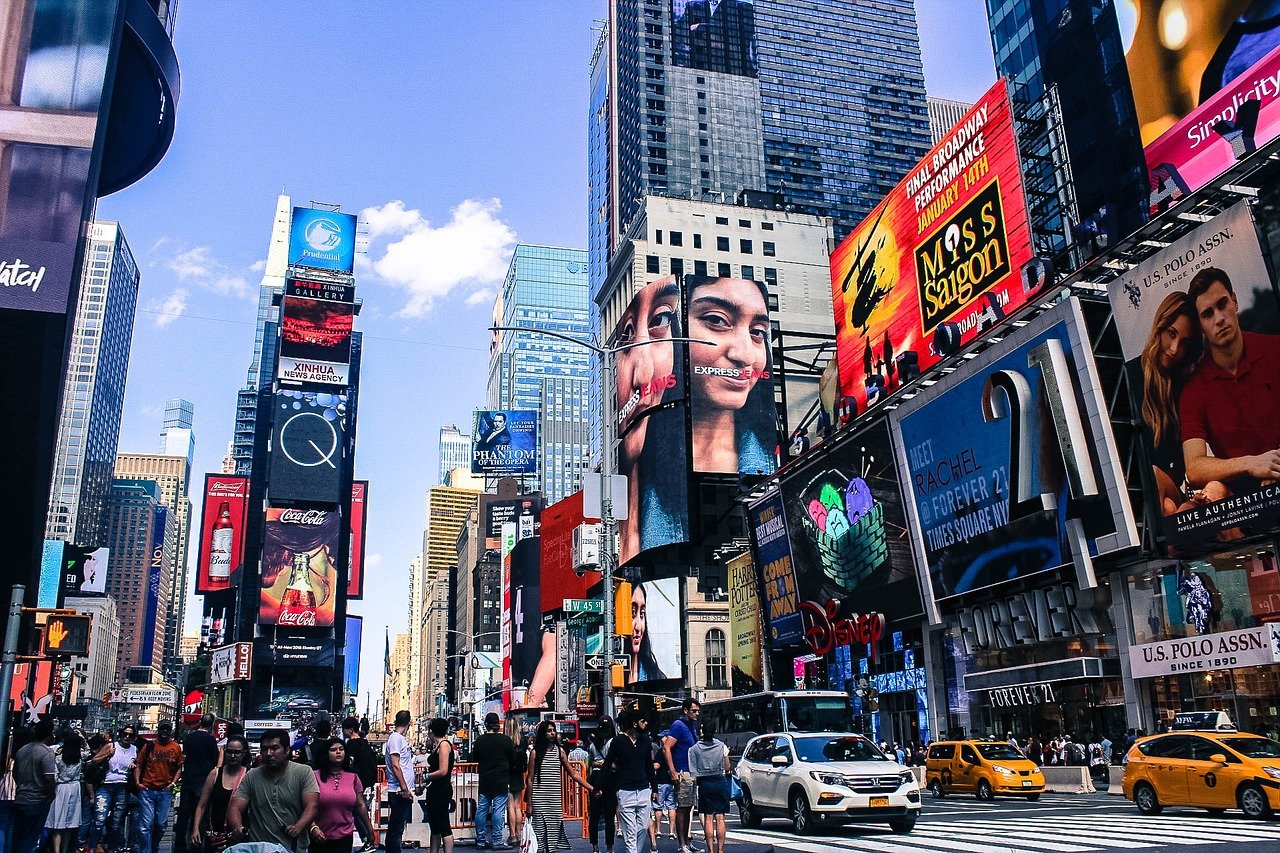
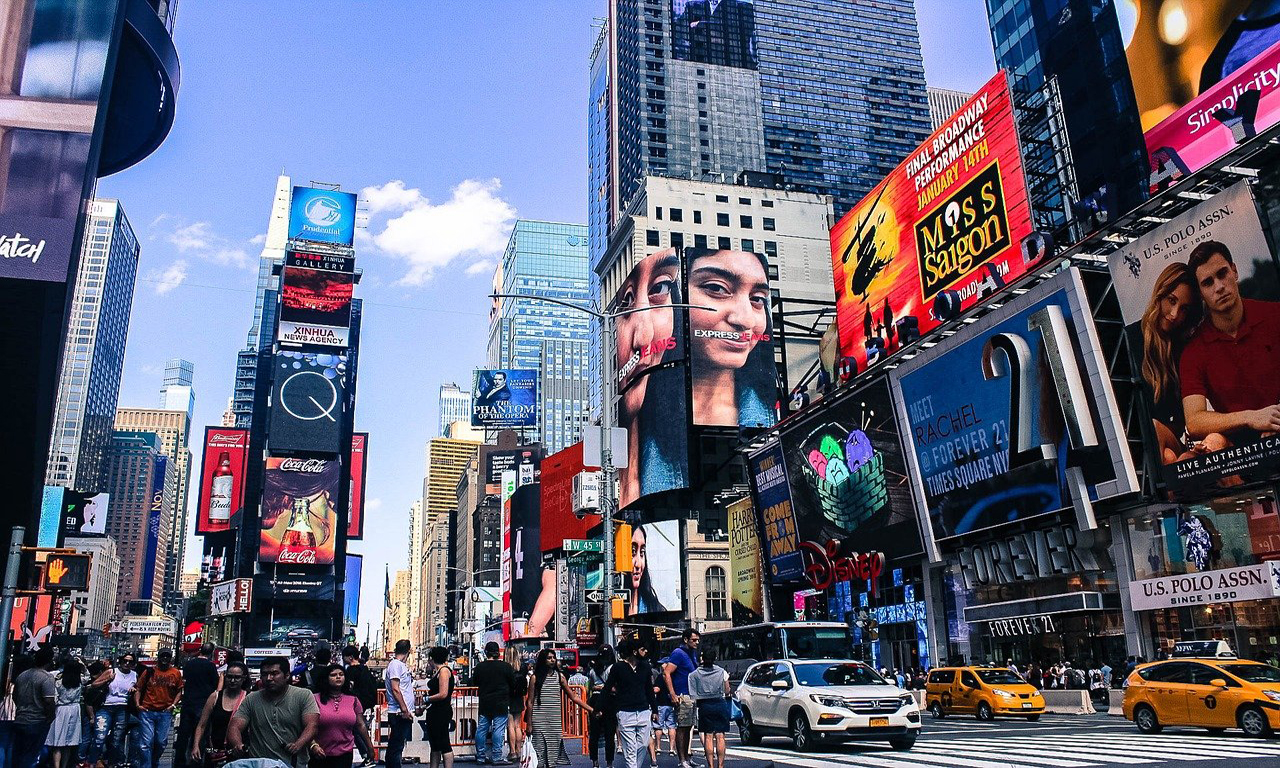
resize images local/event

diff --git a/scripts/classes.js b/scripts/classes.js
@@ -30,7 +30,7 @@ var Locations = /** @class */ (function () {
         locArray.push(this);
     }
     Locations.prototype.display = function () {
-        contentAll.innerHTML += "<div class='card' style='width: 18rem;'><img src='" + this.image + "' class='card-img-top' alt=''><div class='card-body'><p class='card-text'>" + this.object + "<br>" + this.zipCode + " " + this.city + "<br>" + this.address + "</p></div></div>";
+        contentAll.innerHTML += "<div class='card col-sm-3 my-3 mx-auto' style='max-width: 540px'><img src='" + this.image + "' class='card-img-top' alt=''><div class='card-body'><p class='card-text'>" + this.object + "<br>" + this.zipCode + " " + this.city + "<br>" + this.address + "</p></div></div>";
     };
     return Locations;
 }());
@@ -46,7 +46,7 @@ var Restaurants = /** @class */ (function (_super) {
         return _this;
     }
     Restaurants.prototype.display = function () {
-        contentAll.innerHTML += "<div class='card' style='width: 18rem;'><img src='" + this.image + "' class='card-img-top' alt=''><div class='card-body'><p class='card-text'>" + this.object + "<br>" + this.zipCode + " " + this.city + "<br>" + this.address + "<br>" + this.phone + "<br>" + this.cuisine + " cuisine<br>" + this.web + "</p></div></div>";
+        contentAll.innerHTML += "<div class='card col-sm-3 my-3 mx-auto' style='max-width: 540px'><img src='" + this.image + "' class='card-img-top' alt=''><div class='card-body'><p class='card-text'>" + this.object + "<br>" + this.zipCode + " " + this.city + "<br>" + this.address + "<br>" + this.phone + "<br>" + this.cuisine + " cuisine<br>" + this.web + "</p></div></div>";
     };
     return Restaurants;
 }(Locations));
@@ -62,7 +62,7 @@ var Events = /** @class */ (function (_super) {
         return _this;
     }
     Events.prototype.display = function () {
-        contentAll.innerHTML += "<div class='card' style='width: 18rem;'><img src='" + this.image + "' class='card-img-top' alt=''><div class='card-body'><p class='card-text'>" + this.object + "<br>" + this.zipCode + " " + this.city + "<br>" + this.address + "<br>" + this.date + ", " + this.time + "<br>" + this.price + "</p></div></div>";
+        contentAll.innerHTML += "<div class='card col-sm-3 my-3 mx-auto' style='max-width: 540px'><img src='" + this.image + "' class='card-img-top' alt=''><div class='card-body'><p class='card-text'>" + this.object + "<br>" + this.zipCode + " " + this.city + "<br>" + this.address + "<br>" + this.date + ", " + this.time + "<br>" + this.price + "</p></div></div>";
     };
     return Events;
 }(Locations));

diff --git a/scripts/classes.ts b/scripts/classes.ts
@@ -25,8 +25,12 @@ class Locations {
     locArray.push(this);
   }
   display() {
-    contentAll.innerHTML += `<div class='card' style='width: 18rem;'><img src='${this.image}' class='card-img-top' alt=''><div class='card-body'><p class='card-text'>${this.object}<br>${this.zipCode} ${this.city}<br>${this.address}</p></div></div>`;
+    contentAll.innerHTML += `<div class='card col-sm-3 my-3 mx-auto' style='max-width: 540px'><img src='${this.image}' class='card-img-top' alt=''><div class='card-body'><p class='card-text'>${this.object}<br>${this.zipCode} ${this.city}<br>${this.address}</p></div></div>`;
   }
+
+  // display() {
+  //   contentAll.innerHTML += `<div class='card col-3' style='width: 18rem;'><img src='${this.image}' class='card-img-top' alt=''><div class='card-body'><p class='card-text'>${this.object}<br>${this.zipCode} ${this.city}<br>${this.address}</p></div></div>`;
+  // }
 }
 
 // ### Create Child class Restaurants with properties (phone-number, cuisine, web-address) ###
@@ -43,7 +47,7 @@ class Restaurants extends Locations {
     restArray.push(this);
   }
   display() {
-    contentAll.innerHTML += `<div class='card' style='width: 18rem;'><img src='${this.image}' class='card-img-top' alt=''><div class='card-body'><p class='card-text'>${this.object}<br>${this.zipCode} ${this.city}<br>${this.address}<br>${this.phone}<br>${this.cuisine} cuisine<br>${this.web}</p></div></div>`;
+    contentAll.innerHTML += `<div class='card col-sm-3 my-3 mx-auto' style='max-width: 540px'><img src='${this.image}' class='card-img-top' alt=''><div class='card-body'><p class='card-text'>${this.object}<br>${this.zipCode} ${this.city}<br>${this.address}<br>${this.phone}<br>${this.cuisine} cuisine<br>${this.web}</p></div></div>`;
   }
 }
 
@@ -61,6 +65,6 @@ class Events extends Locations {
     eveArray.push(this);
   }
   display() {
-    contentAll.innerHTML += `<div class='card' style='width: 18rem;'><img src='${this.image}' class='card-img-top' alt=''><div class='card-body'><p class='card-text'>${this.object}<br>${this.zipCode} ${this.city}<br>${this.address}<br>${this.date}, ${this.time}<br>${this.price}</p></div></div>`;
+    contentAll.innerHTML += `<div class='card col-sm-3 my-3 mx-auto' style='max-width: 540px'><img src='${this.image}' class='card-img-top' alt=''><div class='card-body'><p class='card-text'>${this.object}<br>${this.zipCode} ${this.city}<br>${this.address}<br>${this.date}, ${this.time}<br>${this.price}</p></div></div>`;
   }
 }

diff --git a/scripts/objects.js b/scripts/objects.js
@@ -26,12 +26,12 @@ var concert = new Events("The 4 Live Crew", "Albion, NY", 14411, "Gaines Waterpo
 var nascar = new Events("Nascar NY 300", "Greenwood Lake, NY", 12572, "Grand Oval, 882 Swede Rd", "./images/eve_nascar.jpg", "Sun., 10/22/2021", "4 p.m.", "$ 55.00");
 var webdev = new Events("Webdeveloper World", "Queens Village, NY", 11427, "Leigh Halls, 155th Ave", "./images/eve_webdev.jpg", "Fr., 06/11/2021", "10 p.m.", "$ 75.00");
 // ### Loop function to create Location cards ###
-function displayLocCards() {
+function displayAllLocCards() {
     for (var i = 0; i < locArray.length; i++) {
         locArray[i].display();
     }
 }
-displayLocCards();
+displayAllLocCards();
 // ### Remove Restaurant objects from Locations array ###
 locArray = locArray.filter(function (val) { return !restArray.includes(val); });
 locArray = locArray.filter(function (val) { return !eveArray.includes(val); });

diff --git a/index.html b/index.html
@@ -103,10 +103,14 @@
     <!-- ### Main-content begins here ### -->
 
     <main>
-      <div id="contentAll" class="mx-5"></div>
+      <div
+        id="contentAll"
+        class="row row-cols-sm-1 row-cols-md-2 row-cols-lg-4 text-secondary g-2 mx-5"
+      ></div>
       <div id="contentEve" class="mx-5"></div>
       <div id="contentRest" class="mx-5"></div>
     </main>
+
     <footer>
       <div class="row bg-dark text-white justify-content-center fs-4 py-3 mx-5">
         Semintra's City Blog

diff --git a/scripts/objects.ts b/scripts/objects.ts
@@ -246,13 +246,13 @@ let webdev = new Events(
 
 // ### Loop function to create Location cards ###
 
-function displayLocCards() {
+function displayAllLocCards() {
   for (let i = 0; i < locArray.length; i++) {
     locArray[i].display();
   }
 }
 
-displayLocCards();
+displayAllLocCards();
 
 // ### Remove Restaurant objects from Locations array ###
 
